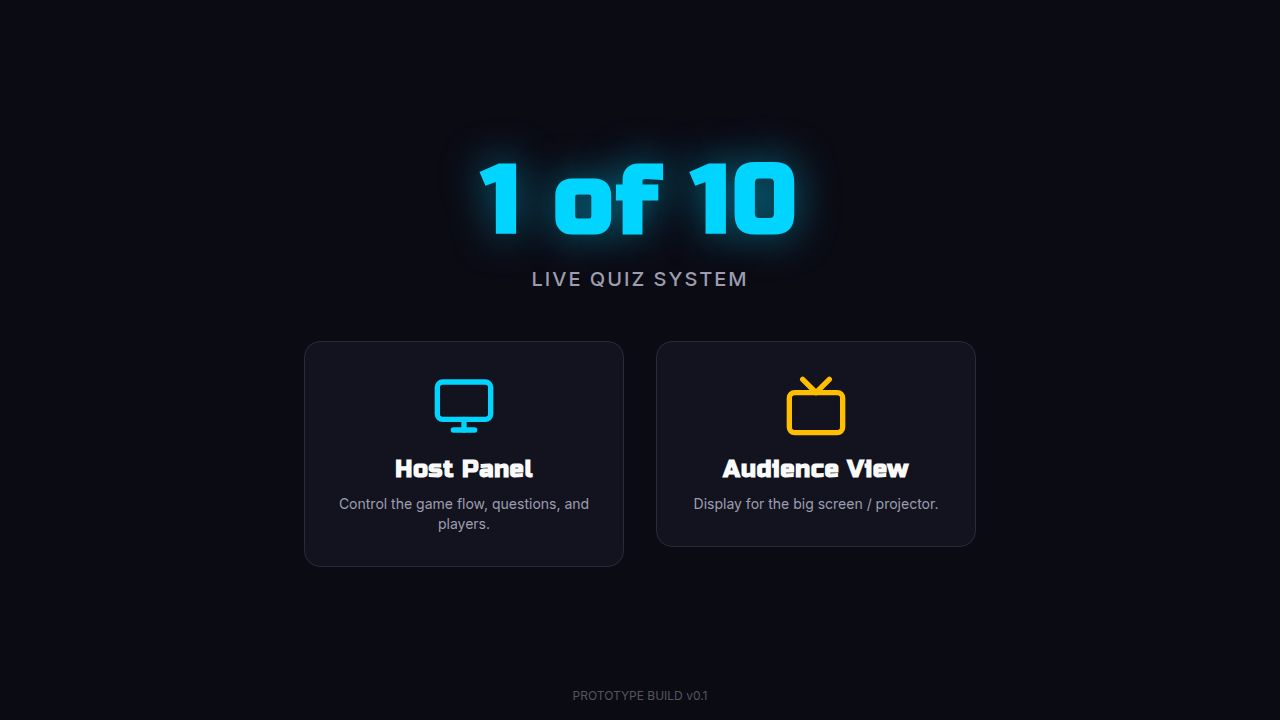
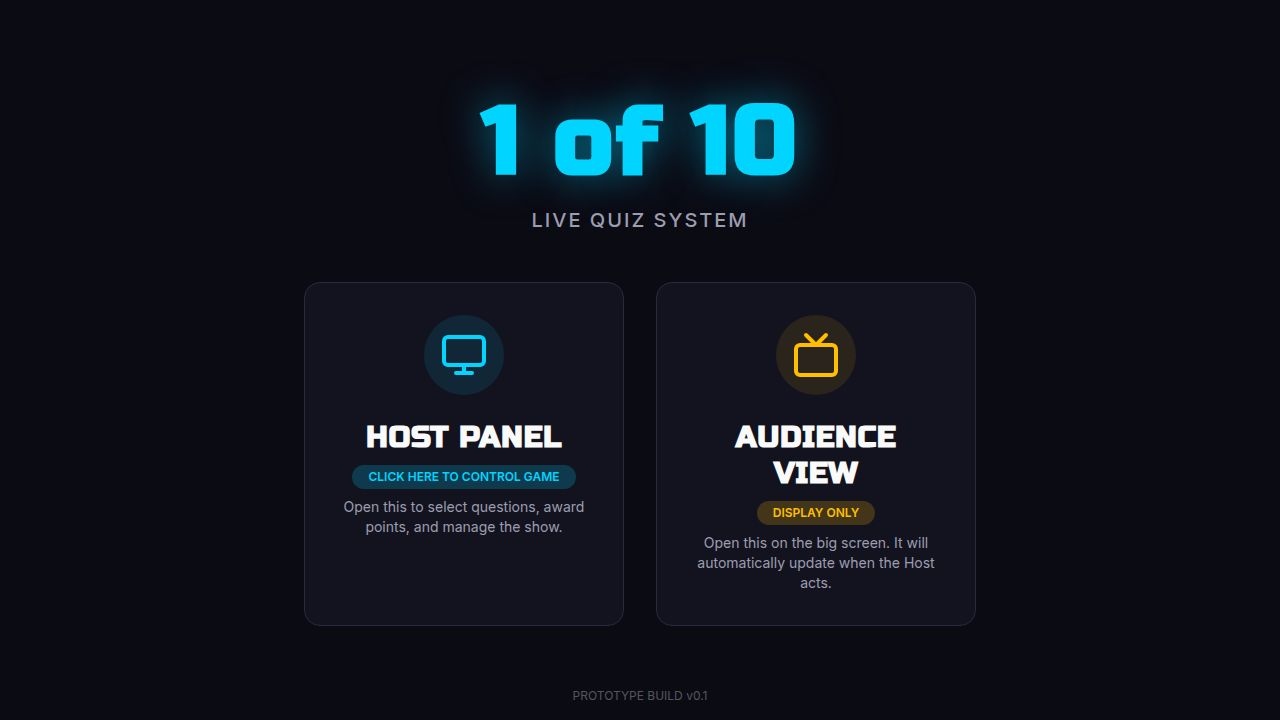
Improve question list display and scrolling capabilities
Update the admin panel to display full question text, enable scrolling for long lists, and enhance the visual distinction of the currently selected question.

Replit-Commit-Author: Agent
Replit-Commit-Session-Id: e4076ae5-2640-4832-b242-bd18ce92c163
Replit-Commit-Checkpoint-Type: full_checkpoint
Replit-Commit-Event-Id: 7fb7594c-96da-4269-b299-bc20353e0889
Replit-Commit-Screenshot-Url: https://storage.googleapis.com/screenshot-production-us-central1/091a9440-f911-41eb-b5e2-715ccf66c8c9/e4076ae5-2640-4832-b242-bd18ce92c163/LZJ3C2Z
Replit-Helium-Checkpoint-Created: true

Changed region(s): [[0.375, 0.1222, 0.6562, 0.3972], [0.5312, 0.4278, 0.75, 0.825], [0.25, 0.4278, 0.4688, 0.7639]]

diff --git a/client/src/pages/admin.tsx b/client/src/pages/admin.tsx
@@ -142,13 +142,24 @@ export default function AdminPanel() {
                         variant={currentQuestion?.id === q.id ? "default" : "outline"}
                         size="sm"
                         className={cn(
-                          "w-full justify-start text-xs h-auto py-2 whitespace-normal text-left",
-                          currentQuestion?.id === q.id && "border-primary"
+                          "w-full justify-start text-xs h-auto py-2.5 px-3 whitespace-normal text-left transition-all",
+                          currentQuestion?.id === q.id 
+                            ? "bg-primary text-primary-foreground border-primary shadow-[0_0_10px_rgba(var(--primary),0.3)]" 
+                            : "hover:bg-primary/10 hover:border-primary/50"
                         )}
                         onClick={() => setQuestion(q.id)}
                       >
-                        <span className="opacity-50 mr-2">#{q.id}</span>
-                        {q.text.substring(0, 30)}...
+                        <div className="flex items-start gap-2">
+                          <span className={cn(
+                            "font-mono opacity-70 shrink-0 mt-0.5",
+                            currentQuestion?.id === q.id ? "text-primary-foreground" : "text-primary"
+                          )}>
+                            #{q.id}
+                          </span>
+                          <span className="font-medium line-clamp-2 leading-relaxed">
+                            {q.text}
+                          </span>
+                        </div>
                       </Button>
                     ))}
                   </div>
